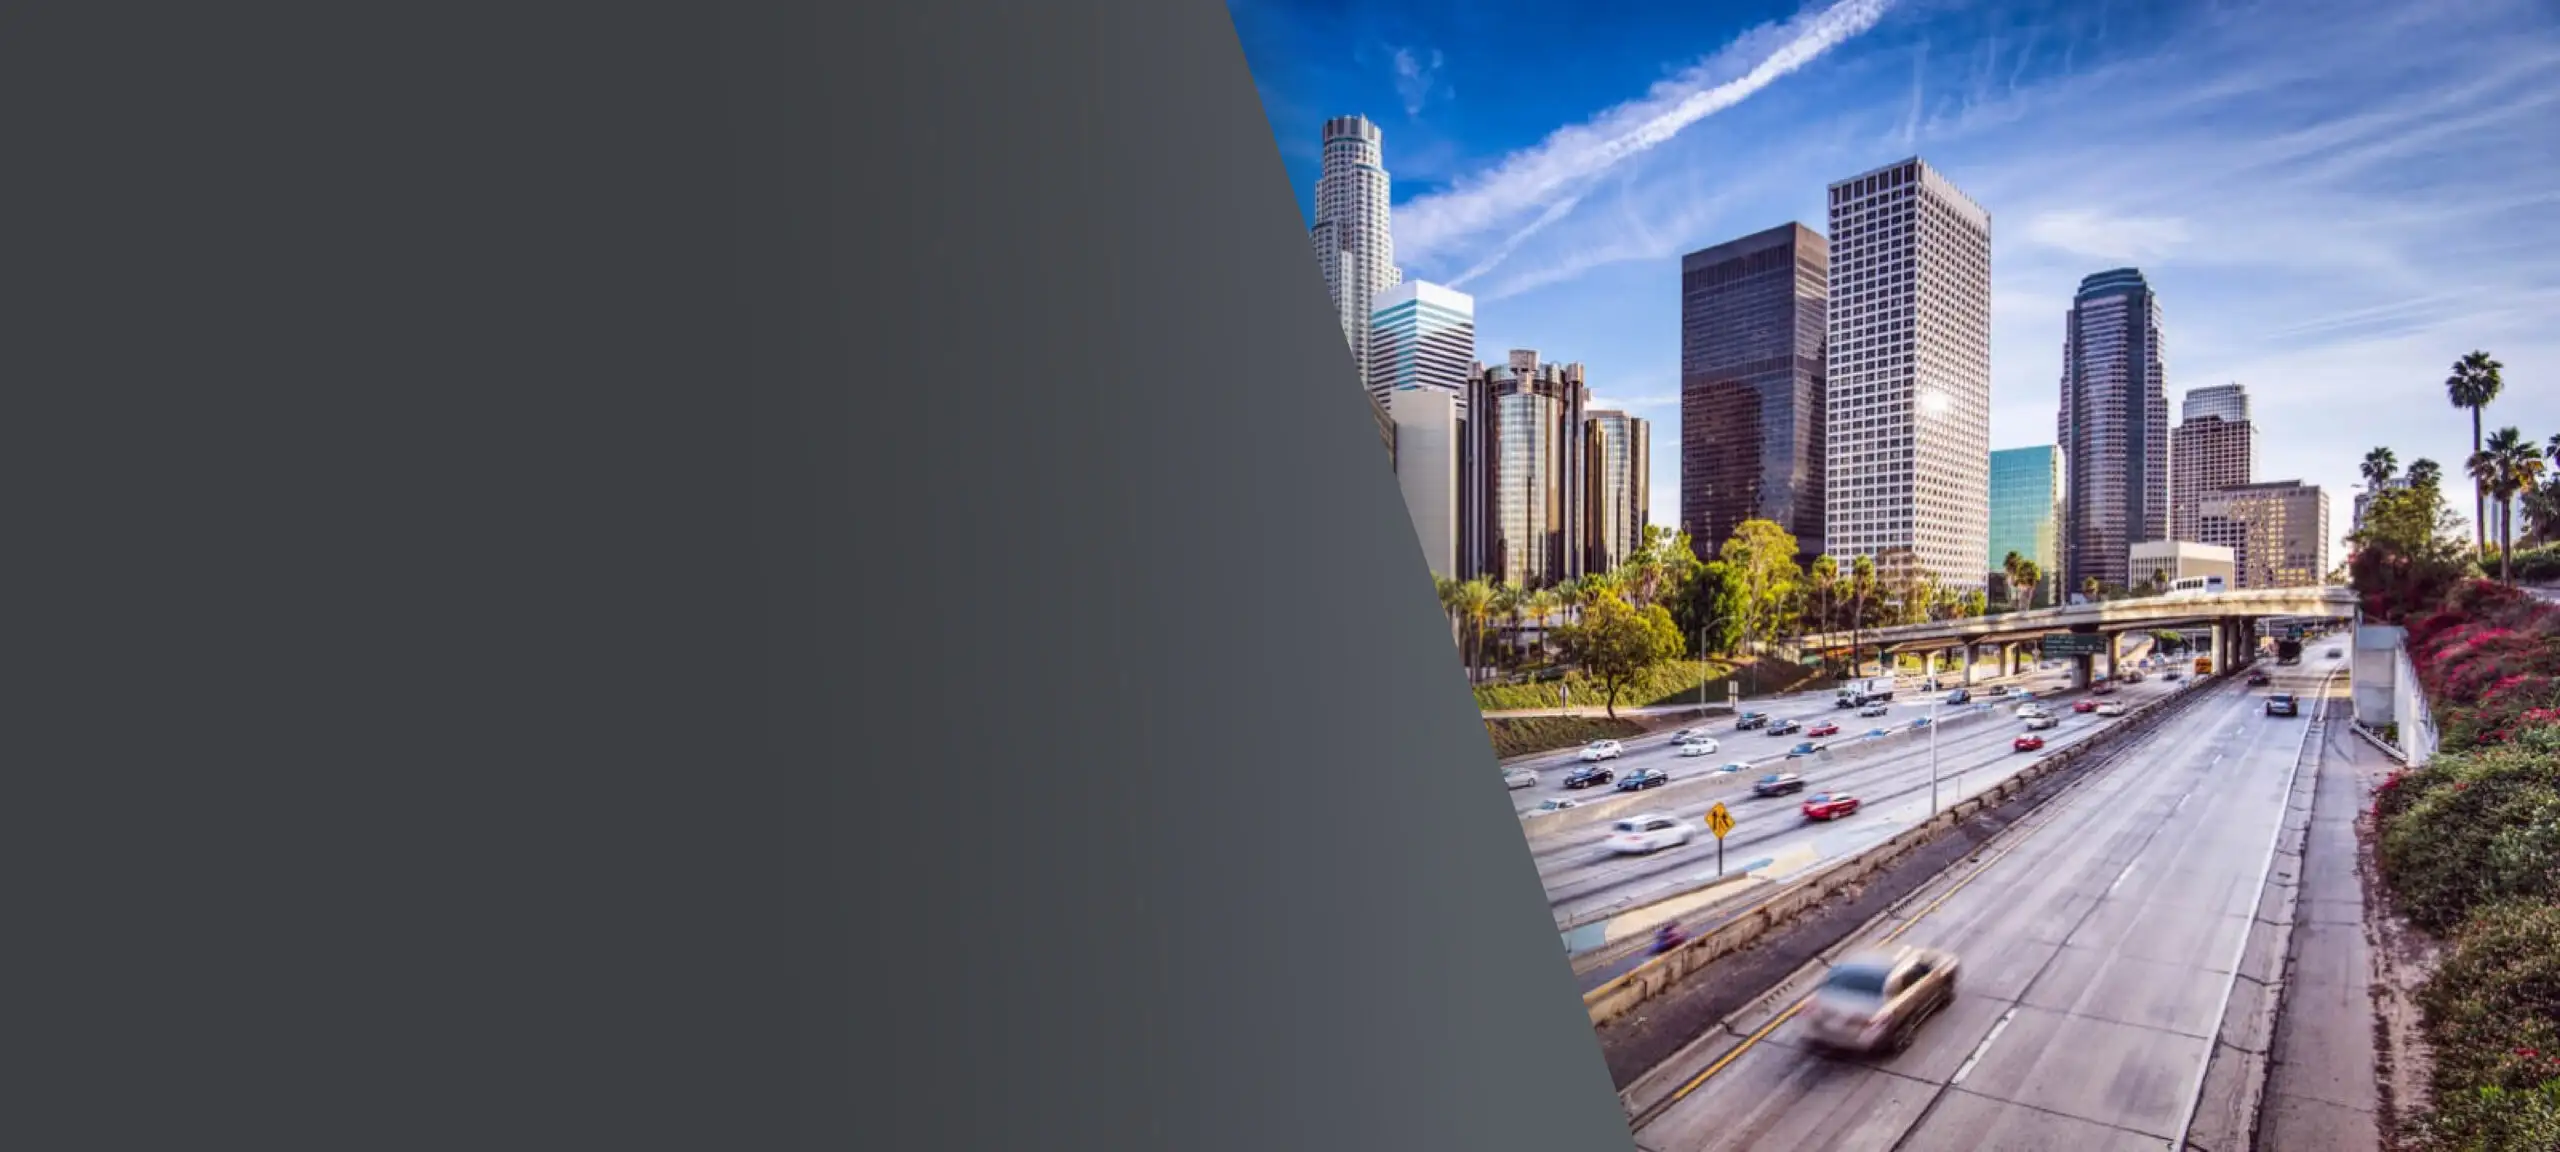
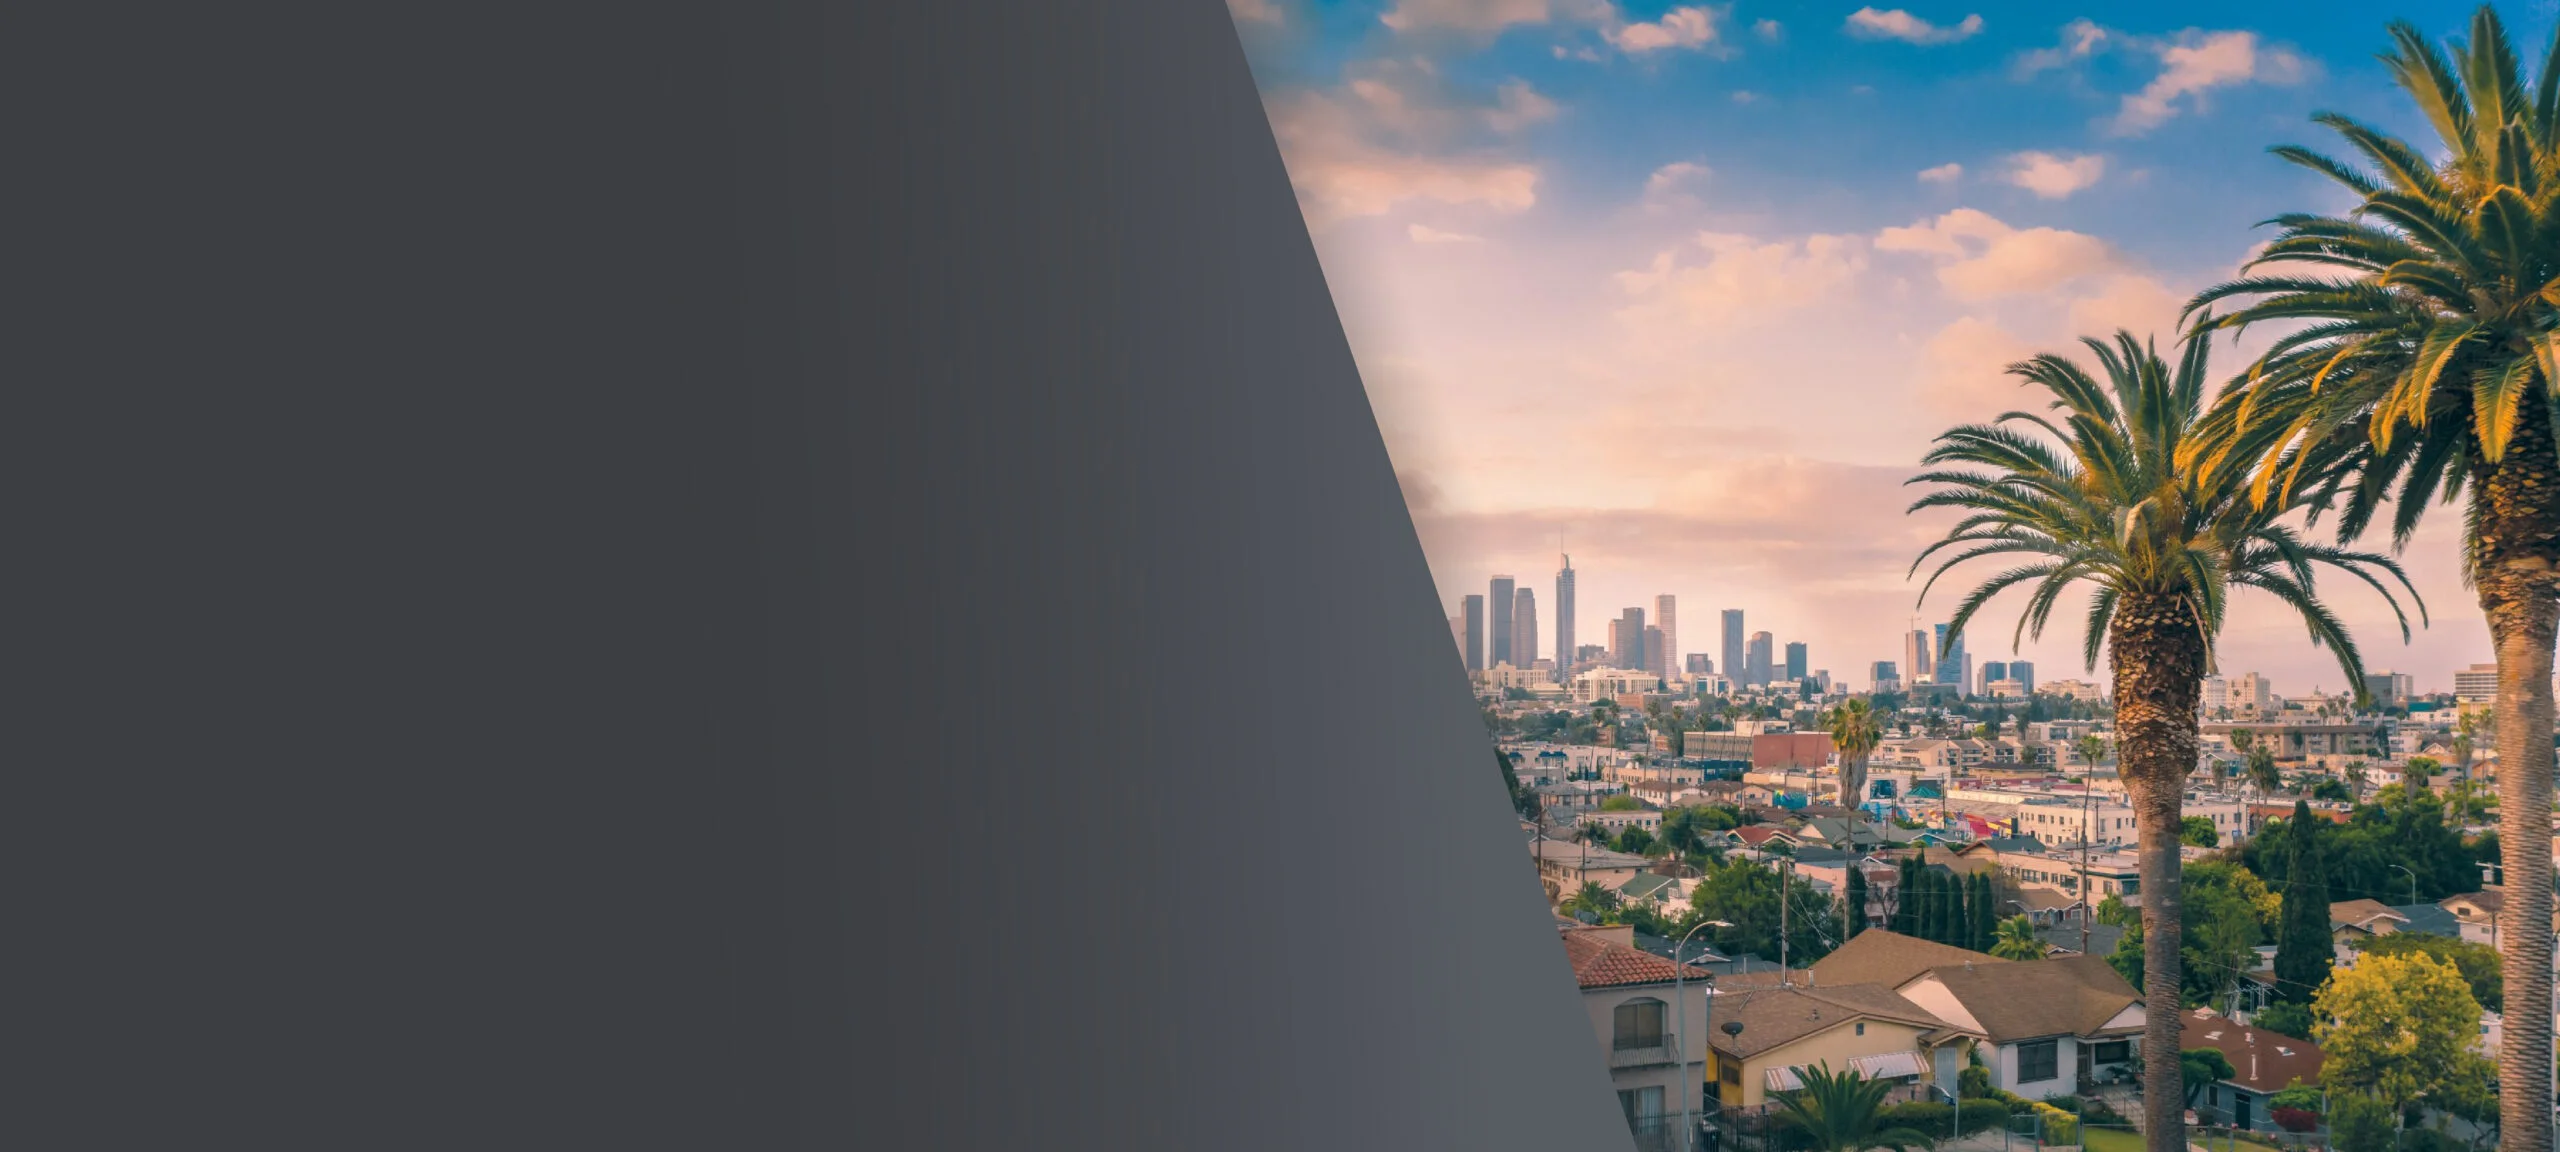
fix: sync LA page content word-for-word + schema + hero WebP + contact band standards

diff --git a/pages/data-recovery-los-angeles.vue b/pages/data-recovery-los-angeles.vue
@@ -1,4 +1,65 @@
 <script setup lang="ts">
+useHead({
+  script: [
+    {
+      type: 'application/ld+json',
+      innerHTML: JSON.stringify({
+        "@context": "https://schema.org",
+        "@graph": [
+          {
+            "@type": "LocalBusiness",
+            "@id": "https://www.fivestardatarecovery.com/#business",
+            "name": "Five Star Data Recovery",
+            "image": "https://www.fivestardatarecovery.com/logo.png",
+            "priceRange": "$$",
+            "telephone": "[phone redacted]",
+            "address": {
+              "@type": "PostalAddress",
+              "streetAddress": "1731 S Brand Blvd",
+              "addressLocality": "Glendale",
+              "addressRegion": "CA",
+              "postalCode": "91204",
+              "addressCountry": "US"
+            },
+            "url": "https://www.fivestardatarecovery.com",
+            "areaServed": { "@type": "Country", "name": "United States" },
+            "aggregateRating": { "@type": "AggregateRating", "ratingValue": "4.9", "reviewCount": "498" }
+          },
+          {
+            "@type": "BreadcrumbList",
+            "itemListElement": [
+              { "@type": "ListItem", "position": 1, "name": "Home", "item": "https://www.fivestardatarecovery.com/" },
+              { "@type": "ListItem", "position": 2, "name": "Data Recovery Los Angeles", "item": "https://www.fivestardatarecovery.com/data-recovery-los-angeles/" }
+            ]
+          },
+          {
+            "@type": "FAQPage",
+            "mainEntity": [
+              { "@type": "Question", "name": "Do you offer professional data recovery services in Los Angeles, CA?", "acceptedAnswer": { "@type": "Answer", "text": "Yes, we specialize in professional data recovery in Los Angeles. Whether you're facing a failed hard drive, a corrupted SSD, or a non-responsive USB flash drive, our local recovery experts are here to help. We have over a decade of experience handling complex data loss scenarios, right here in the heart of Los Angeles." } },
+              { "@type": "Question", "name": "How long does a typical Los Angeles data recovery take?", "acceptedAnswer": { "@type": "Answer", "text": "Most standard recoveries take 3\u20135 business days. If your situation is urgent, we offer both Expedited and Expedited Plus services. Every recovery begins with a thorough diagnostic and we provide same-day updates for all Los Angeles-based drop-offs or pickups." } },
+              { "@type": "Question", "name": "Where is your data recovery lab located in Los Angeles?", "acceptedAnswer": { "@type": "Answer", "text": "Our certified recovery lab is just outside Los Angeles in Glendale, CA, and we proudly serve clients across the entire Los Angeles area. We also offer free same-day pickup for local clients and nationwide mail-in service for out-of-area recoveries." } },
+              { "@type": "Question", "name": "Is there a free diagnostic included with your Los Angeles data recovery service?", "acceptedAnswer": { "@type": "Answer", "text": "Yes\u2014your diagnostic is free as long as you're comfortable with the initial flat-rate quote we provide upfront. There are no hidden fees or surprises. If the scope of the recovery changes, you'll have the option to approve the new rate or walk away without paying anything." } },
+              { "@type": "Question", "name": "What types of devices do you recover data from in Los Angeles?", "acceptedAnswer": { "@type": "Answer", "text": "We recover data from hard drives, SSDs, external drives, USB flash drives, SD cards, iPhones, MacBooks, iMacs, RAID arrays, and more. Whether you lost files due to accidental deletion, physical damage, or logical failure, our team is equipped to recover your data securely and efficiently." } },
+              { "@type": "Question", "name": "Do you offer emergency or same-day data recovery in Los Angeles?", "acceptedAnswer": { "@type": "Answer", "text": "Yes, we offer emergency data recovery services for Los Angeles clients. Our Expedited Plus Service is available 24/7 for time-sensitive situations. Your case is prioritized immediately, even outside normal business hours." } },
+              { "@type": "Question", "name": "Can you recover data from water-damaged or physically broken devices in Los Angeles?", "acceptedAnswer": { "@type": "Answer", "text": "Absolutely. We specialize in recovering data from physically damaged devices\u2014including water-damaged hard drives, phones, MacBooks and SSDs. Our Los Angeles cleanroom lab is fully equipped to handle severe cases involving hardware failure." } },
+              { "@type": "Question", "name": "Do you provide business data recovery for companies in Los Angeles?", "acceptedAnswer": { "@type": "Answer", "text": "Yes, we offer professional data recovery services for businesses throughout Los Angeles. From RAID systems and servers to encrypted drives and file systems, we handle business-critical recoveries with confidentiality and offer NDAs upon request." } },
+              { "@type": "Question", "name": "What is your success rate for data recovery in Los Angeles?", "acceptedAnswer": { "@type": "Answer", "text": "We maintain a 98% success rate across most recovery cases. Thanks to our experienced engineers and certified cleanroom lab in Los Angeles, we're able to recover data from a wide range of devices, even those considered unrecoverable by others." } },
+              { "@type": "Question", "name": "Is your Los Angeles data recovery lab certified?", "acceptedAnswer": { "@type": "Answer", "text": "Yes, our facility is ISO-certified and operates in a professional Class 100 cleanroom environment. This ensures all physically damaged drives are handled under optimal conditions for maximum recovery success." } }
+            ]
+          },
+          {
+            "@type": "Review",
+            "author": { "@type": "Person", "name": "Sarah K. (Los Angeles, CA)" },
+            "reviewRating": { "@type": "Rating", "ratingValue": "5", "bestRating": "5" },
+            "reviewBody": "Five Star Data Recovery saved my business files after a failed hard drive. Fast, transparent, and professional from start to finish.",
+            "itemReviewed": { "@type": "LocalBusiness", "@id": "https://www.fivestardatarecovery.com/#business", "name": "Five Star Data Recovery" }
+          }
+        ]
+      })
+    }
+  ]
+})
+
 useSeoMeta({
   title: 'Data Recovery in Los Angeles CA - Five Star Data Recovery',
   ogTitle: 'Data Recovery Los Angeles',
@@ -15,17 +76,17 @@ const trustBadges = [
 
 const reviews = [
   {
-    text: "I was devastated when my hard drive failed and I thought I'd lost years of photos and work documents. Five Star Data Recovery not only recovered everything, but they offered free same-day pickup right here in Los Angeles. The process was smooth, professional, and the pricing was completely transparent.",
+    text: "After my external hard drive suddenly stopped showing up, I reached out to Five Star Data Recovery. They explained the process clearly and gave me a flat-rate price with no hidden fees. Within a few days, I had all my files back—including hundreds of family photos I thought were gone forever. Highly recommended!",
     name: 'Melissa C.',
     location: 'Los Angeles, CA',
   },
   {
-    text: "My external SSD stopped working out of nowhere and I had no backup. Five Star's team in Glendale diagnosed it the same day and recovered 100% of my data within 3 business days. The free pickup from my LA office made it incredibly easy. I can't recommend them highly enough.",
+    text: 'The team at Five Star was incredible! My RAID system failed, and I was on the verge of losing years of business data. They walked me through the recovery process, kept me updated daily, and delivered a full recovery within the estimated timeframe. Their professionalism and expertise gave me real peace of mind.',
     name: 'David R.',
     location: 'Los Angeles, CA',
   },
   {
-    text: "After a water spill destroyed my laptop, I was sure everything was gone. Five Star assessed the drive in their cleanroom and managed to recover all of my client files and personal photos. The flat-rate pricing meant no surprises, and their No Data, No Charge policy gave me total peace of mind.",
+    text: "I had a clicking hard drive that I thought was beyond saving. Five Star Data Recovery handled everything quickly and professionally. The fact that they don't charge unless they recover your data made the decision stress-free. Thankfully, they were able to recover everything I needed.",
     name: 'Jennifer M.',
     location: 'Los Angeles, CA',
   },
@@ -33,31 +94,46 @@ const reviews = [
 
 const faqs = [
   {
-    q: 'Do you offer data recovery services in Los Angeles?',
-    a: "Yes — Five Star Data Recovery serves all of Los Angeles and surrounding areas. Our lab is based in Glendale, CA and we offer free same-day pickup Monday through Friday throughout Los Angeles. Simply call us or submit an online request to get started.",
+    q: 'Do you offer professional data recovery services in Los Angeles, CA?',
+    a: "Yes, we specialize in professional data recovery in Los Angeles. Whether you're facing a failed hard drive, a corrupted SSD, or a non-responsive USB flash drive, our local recovery experts are here to help. We have over a decade of experience handling complex data loss scenarios, right here in the heart of Los Angeles.",
   },
   {
-    q: 'How does your free same-day pickup work?',
-    a: "Give us a call or fill out a request online. We'll schedule a pickup from your Los Angeles home or office at no charge, typically the same day. Your device will be transported securely to our Glendale lab and evaluated immediately upon arrival.",
+    q: 'How long does a typical Los Angeles data recovery take?',
+    a: 'Most standard recoveries take 3–5 business days. If your situation is urgent, we offer both Expedited and Expedited Plus services. Every recovery begins with a thorough diagnostic and we provide same-day updates for all Los Angeles-based drop-offs or pickups.',
   },
   {
-    q: 'What types of devices can you recover data from in Los Angeles?',
-    a: 'We recover data from hard drives, SSDs, external drives, RAID arrays, NAS devices, USB flash drives, SD cards, iPhones, and more. Whether it\'s a personal device or a business server, we handle all storage media types.',
+    q: 'Where is your data recovery lab located in Los Angeles?',
+    a: 'Our certified recovery lab is just outside Los Angeles in Glendale, CA, and we proudly serve clients across the entire Los Angeles area. We also offer free same-day pickup for local clients and nationwide mail-in service for out-of-area recoveries.',
   },
   {
-    q: 'How long does data recovery take?',
-    a: 'Standard cases for Los Angeles clients are typically completed within 3–5 business days. We also offer <a href="/expedited-service" class="faq-link">Expedited Service</a> for priority business-hour recovery and <a href="/expedited-service-plus" class="faq-link">Expedited Service Plus</a> for 24/7 around-the-clock recovery.',
+    q: 'Is there a free diagnostic included with your Los Angeles data recovery service?',
+    a: "Yes—your diagnostic is free as long as you're comfortable with the initial flat-rate quote we provide upfront. There are no hidden fees or surprises. If the scope of the recovery changes, you'll have the option to approve the new rate or walk away without paying anything.",
   },
   {
-    q: 'What does No Data, No Charge mean?',
-    a: 'Our No Data, No Charge (most cases) policy means that if we cannot recover your data, you will not be charged for the recovery service. The free diagnostic evaluation is always included at no cost and with no obligation to proceed.',
+    q: 'What types of devices do you recover data from in Los Angeles?',
+    a: 'We recover data from hard drives, SSDs, external drives, USB flash drives, SD cards, iPhones, MacBooks, iMacs, RAID arrays, and more. Whether you lost files due to accidental deletion, physical damage, or logical failure, our team is equipped to recover your data securely and efficiently.',
   },
   {
-    q: 'How much does data recovery cost in Los Angeles?',
-    a: 'We use flat-rate pricing with no hidden fees. Recovery costs typically range from $300 to $950 depending on the device type and severity of the failure. You\'ll receive a complete quote after the free diagnosis before any work begins.',
+    q: 'Do you offer emergency or same-day data recovery in Los Angeles?',
+    a: 'Yes, we offer emergency data recovery services for Los Angeles clients. Our Expedited Plus Service is available 24/7 for time-sensitive situations. Your case is prioritized immediately, even outside normal business hours.',
+  },
+  {
+    q: 'Can you recover data from water-damaged or physically broken devices in Los Angeles?',
+    a: 'Absolutely. We specialize in recovering data from physically damaged devices—including water-damaged hard drives, phones, MacBooks and SSDs. Our Los Angeles cleanroom lab is fully equipped to handle severe cases involving hardware failure.',
+  },
+  {
+    q: 'Do you provide business data recovery for companies in Los Angeles?',
+    a: 'Yes, we offer professional data recovery services for businesses throughout Los Angeles. From RAID systems and servers to encrypted drives and file systems, we handle business-critical recoveries with confidentiality and offer NDAs upon request.',
+  },
+  {
+    q: 'What is your success rate for data recovery in Los Angeles?',
+    a: "We maintain a 98% success rate across most recovery cases. Thanks to our experienced engineers and certified cleanroom lab in Los Angeles, we're able to recover data from a wide range of devices, even those considered unrecoverable by others.",
+  },
+  {
+    q: 'Is your Los Angeles data recovery lab certified?',
+    a: 'Yes, our facility is ISO-certified and operates in a professional Class 100 cleanroom environment. This ensures all physically damaged drives are handled under optimal conditions for maximum recovery success.',
   },
 ]
-
 const openFaq = ref<number | null>(null)
 const toggleFaq = (i: number) => { openFaq.value = openFaq.value === i ? null : i }
 </script>
@@ -80,9 +156,7 @@ const toggleFaq = (i: number) => { openFaq.value = openFaq.value === i ? null : 
     <section class="s-white">
       <div class="container">
         <h2 class="s-heading">Free Same-Day Pickup in Los Angeles</h2>
-        <p class="s-body">We know that dealing with data loss is stressful enough without having to figure out how to get your device to a lab. That's why Five Star Data Recovery offers free same-day pickup throughout Los Angeles — Monday through Friday. Just give us a call or submit an online request, and we'll come to you.</p>
-        <p class="s-body">Whether you're in Downtown LA, West Hollywood, Culver City, Santa Monica, or anywhere else in the city, our team will pick up your device at no charge. We bring it securely to our Glendale lab where our certified engineers begin the evaluation immediately.</p>
-        <p class="s-body">No need to worry about packaging, shipping, or finding a way to transport a damaged or sensitive device. Our free pickup service is designed to make the recovery process as simple and stress-free as possible for every Los Angeles client.</p>
+        <p class="s-body">Can’t make it out to our lab? No problem. We offer free same-day pickup from most areas across Los Angeles. Whether you’re at your home, office, or school, just contact us before noon, and we’ll come to you. The easiest way to get your recovery started without leaving your space is available. This service is available from Monday to Friday. One more reason data recovery clients trust us to make the process easy.</p>
       </div>
     </section>
 
@@ -90,8 +164,7 @@ const toggleFaq = (i: number) => { openFaq.value = openFaq.value === i ? null : 
     <section class="s-grey">
       <div class="container">
         <h2 class="s-heading">Trusted by Locals Across LA</h2>
-        <p class="s-body">Five Star Data Recovery has helped thousands of individuals and businesses across Los Angeles recover their most important data. From Hollywood film producers and Culver City tech startups to Westside families and downtown businesses, we've built our reputation on results, transparency, and genuine care for our clients.</p>
-        <p class="s-body">Our engineers have successfully recovered data from every major brand and device type — including Seagate, Western Digital, Samsung, Toshiba, LaCie, and more. With a 98% recovery success rate and flat-rate pricing, Los Angeles residents trust us because we deliver.</p>
+        <p class="s-body">We’re proud to be a top-rated data recovery company serving customers all over Los Angeles. Our data recovery clients include students, photographers, businesses, and IT teams. They come to us when it matters most. With high success rates, secure handling, and real technical expertise, we’ve helped thousands of satisfied customers. If you’re searching for Los Angeles data recovery that’s reliable and local—we’re the team to call.</p>
       </div>
     </section>
 
@@ -99,15 +172,16 @@ const toggleFaq = (i: number) => { openFaq.value = openFaq.value === i ? null : 
     <section class="s-white">
       <div class="container">
         <h2 class="s-heading">What We Recover</h2>
+        <p class="s-body">Our engineers recover files from nearly any storage device, including:</p>
         <ul class="content-list">
-          <li><NuxtLink to="/data-recovery/hard-drive-recovery" class="inline-link">Hard Drive Recovery</NuxtLink> — Mechanical failures, clicking drives, unresponsive HDDs</li>
-          <li><NuxtLink to="/data-recovery/ssd-recovery" class="inline-link">SSD Recovery</NuxtLink> — Firmware errors, controller failures, sudden death</li>
-          <li><NuxtLink to="/data-recovery/raid-recovery" class="inline-link">RAID &amp; NAS Recovery</NuxtLink> — All RAID levels, NAS devices, business servers</li>
-          <li><NuxtLink to="/data-recovery/external-hard-drive" class="inline-link">External Hard Drive Recovery</NuxtLink> — Dropped, damaged, or corrupt external drives</li>
-          <li><NuxtLink to="/data-recovery/usb-recovery" class="inline-link">USB Flash Drive Recovery</NuxtLink> — Broken connectors, unrecognized drives</li>
-          <li><NuxtLink to="/data-recovery/sd-card-recovery" class="inline-link">SD Card Recovery</NuxtLink> — Camera cards, drone media, corrupted memory</li>
-          <li><NuxtLink to="/data-recovery/iphone-recovery" class="inline-link">iPhone &amp; Mobile Recovery</NuxtLink> — Component-level iOS device recovery</li>
+          <li>External and internal hard drives</li>
+          <li>SSDs and hybrid drives</li>
+          <li>Flash drives and SD cards</li>
+          <li>Encrypted or password-protected storage</li>
+          <li>RAID arrays, NAS, and servers</li>
+          <li>Windows, macOS, and Linux systems</li>
         </ul>
+        <p class="s-body">We handle cases involving physically damaged devices, accidental deletion, formatting, failed updates, and more. Whether you’re facing data loss after a crash or corruption, we’ll work to recover the data that matters to you.</p>
       </div>
     </section>
 
@@ -115,52 +189,81 @@ const toggleFaq = (i: number) => { openFaq.value = openFaq.value === i ? null : 
     <section class="s-grey">
       <div class="container">
         <h2 class="s-heading">Hardware and Software Expertise</h2>
-        <p class="s-body">Our team specializes in both hardware-level and software-level data recovery. For mechanically damaged drives — including those with clicking read/write heads, seized motors, or damaged platters — we use our ISO 5 certified cleanroom to safely perform component-level repairs before extracting data.</p>
-        <p class="s-body">For logical failures such as corrupted file systems, accidental formatting, bad sectors, and deleted files, we use industry-leading imaging and reconstruction tools to retrieve your data without risking further damage. Every recovery is handled with the utmost care and precision.</p>
+        <p class="s-body">Hardware issues cause some data loss, while software failure causes others. Our recovery experts receive training in both hardware and software data recovery. Whether it’s a head crash or a virus, we’ll know how to handle it. We perform all recoveries that involve fixing internal drives in our Class 100 cleanroom. This cleanroom keeps delicate parts safe from dust and damage. Every cleanroom procedure is handled by certified engineers using anti-static protocols to ensure data integrity.</p>
+        <p class="s-body">Our team also uses specialized tools to address firmware corruption, file system damage, and partition-level failures—ensuring we can recover data even from complex or hybrid failure scenarios.</p>
       </div>
     </section>
 
     <!-- SECTION 5 — s-white: Data Recovery Process -->
     <section class="s-white">
       <div class="container">
-        <h2 class="s-heading">Data Recovery Process</h2>
+        <h2 class="s-heading">Our 5-Step Data Recovery Process</h2>
         <div class="process-steps">
           <div class="process-step">
             <div class="step-num">1</div>
             <div>
-              <h3 class="step-title">Drop off or Mail in Your Drive</h3>
-              <p class="step-body">You can visit our Glendale lab for a quick drop-off, or securely mail your device using our prepaid shipping label — whichever is more convenient for you.</p>
+              <h3 class="step-title">Free Evaluation</h3>
+              <p class="step-body">We assess your device and provide a diagnostic report with a flat-rate quote—no obligation.</p>
             </div>
           </div>
           <div class="process-step">
             <div class="step-num">2</div>
             <div>
-              <h3 class="step-title">Receive a Free Diagnosis</h3>
-              <p class="step-body">Our team will evaluate your device and provide a detailed diagnosis along with an initial quote — completely free of charge and with no obligation to proceed.</p>
+              <h3 class="step-title">Drive Imaging</h3>
+              <p class="step-body">We create a sector-by-sector clone of your storage device to preserve the original data.</p>
             </div>
           </div>
           <div class="process-step">
             <div class="step-num">3</div>
             <div>
-              <h3 class="step-title">Our Engineers work on Recovering your Data</h3>
-              <p class="step-body">We carefully begin the recovery process using advanced tools and cleanroom procedures.</p>
+              <h3 class="step-title">Recovery Process</h3>
+              <p class="step-body">Using advanced tools, we extract and rebuild the data from the cloned image.</p>
             </div>
           </div>
           <div class="process-step">
             <div class="step-num">4</div>
             <div>
-              <h3 class="step-title">Review &amp; Approve the Recovered</h3>
-              <p class="step-body">After recovery is complete, you'll receive a detailed file list to review so you can confirm everything important has been successfully recovered.</p>
+              <h3 class="step-title">File Review</h3>
+              <p class="step-body">You review a list or preview of the recovered files before finalizing the case.</p>
             </div>
           </div>
           <div class="process-step">
             <div class="step-num">5</div>
             <div>
-              <h3 class="step-title">Receive your recovered data</h3>
-              <p class="step-body">Once approved, we'll securely transfer your data to a new drive and return it to you via pickup or insured shipping — ready for immediate use.</p>
+              <h3 class="step-title">Data Delivery</h3>
+              <p class="step-body">We transfer your recovered data to a new drive and return it securely.</p>
             </div>
           </div>
         </div>
+      </div>
+    </section>
+
+    <!-- YOUR PRIVACY COMES FIRST -->
+    <section class="s-grey">
+      <div class="container">
+        <h2 class="s-heading">Your Privacy Comes First</h2>
+        <p class="s-body">We treat your data with complete confidentiality—just like we’d want our own handled. Whether you are a student with lost essays or a business with private files, we take steps to keep your data safe. We also offer:</p>
+        <ul class="content-list">
+          <li>Optional NDAs for sensitive projects</li>
+          <li>Secure file transfers and storage</li>
+          <li>Permanent file deletion after delivery (on request)</li>
+        </ul>
+      </div>
+    </section>
+
+    <!-- WHO WE HELP -->
+    <section class="s-white">
+      <div class="container">
+        <h2 class="s-heading">Who We Help</h2>
+        <p class="s-body">We provide data recovery services in Los Angeles for a wide range of people and businesses, including:</p>
+        <ul class="content-list">
+          <li>Students who accidentally deleted assignments or lost access to school projects</li>
+          <li>Small businesses experiencing server crashes or corrupted files</li>
+          <li>Creative professionals like photographers, editors, and producers who need to restore media</li>
+          <li>Home users trying to recover family photos, videos, or personal documents</li>
+          <li>IT departments and tech consultants managing RAID, NAS, or multi-drive failures</li>
+          <li>Legal, healthcare, and finance professionals needing secure, confidential recovery</li>
+        </ul>
       </div>
     </section>
 
@@ -168,16 +271,16 @@ const toggleFaq = (i: number) => { openFaq.value = openFaq.value === i ? null : 
     <ReviewsSection :reviews="reviews" />
 
     <!-- CONTACT BAND -->
-    <section class="s-contact-band">
+    <section class="s-contact-band contact-band-bg">
       <div class="container">
         <div class="contact-banner-card">
-          <h2 class="contact-banner-heading">Contact Us for Los Angeles Data Recovery</h2>
+          <h2 class="contact-banner-heading">Let’s Recover Your Files</h2>
         </div>
+        <p class="contact-body-text">If your files are stuck, corrupted, or just gone—don’t wait. Reach out to Five Star Data Recovery today. The sooner we start, the better your chance of a full recovery.</p>
         <ul class="contact-bullets">
-          <li>Free same-day pickup Monday–Friday</li>
-          <li>Free diagnostic</li>
-          <li>3–5 business day turnaround</li>
-          <li>No Data, No Charge (most cases)</li>
+          <li>Based near Los Angeles – Serving all surrounding areas</li>
+          <li>Free same-day pickup available (Mon–Fri)</li>
+          <li>Call us now or create a ticket online</li>
         </ul>
         <NuxtLink to="/start-recovery" class="btn-start-recovery">Start Your Recovery</NuxtLink>
       </div>
@@ -221,9 +324,11 @@ const toggleFaq = (i: number) => { openFaq.value = openFaq.value === i ? null : 
 .step-num { width: 48px; height: 48px; background: #1a1a2e; color: #C9A84C; font-size: 1.2rem; font-weight: 900; border-radius: 50%; display: flex; align-items: center; justify-content: center; flex-shrink: 0; }
 .step-title { font-size: 1rem; font-weight: 800; color: #1a1a2e; margin-bottom: 8px; }
 .step-body { font-size: 0.93rem; color: #4a5568; line-height: 1.7; margin: 0; }
-.s-contact-band { background: #0f1623; padding: 72px 0; border-top: 3px solid #C9A84C; border-bottom: 3px solid #C9A84C; }
-.contact-banner-card { border: 1px solid rgba(201,168,76,0.3); border-radius: 8px; padding: 28px 32px; margin-bottom: 28px; }
+.s-contact-band { background: #0f1623; padding: 44px 0; border-top: 3px solid #C9A84C; border-bottom: 3px solid #C9A84C; }
+.contact-band-bg { background: linear-gradient(to right, rgba(15,22,35,0.92) 0%, rgba(15,22,35,0.75) 60%, rgba(15,22,35,0.5) 100%), url('/pasadena-contact-bg.jpg') center center / cover no-repeat !important; }
+.contact-banner-card { border: none; border-radius: 0; padding: 0; margin-bottom: 16px; }
 .contact-banner-heading { font-size: clamp(1.4rem, 2.5vw, 1.9rem); font-weight: 900; color: #fff; margin: 0; }
+.contact-body-text { font-size: 0.95rem; color: rgba(255,255,255,0.7); line-height: 1.75; margin-bottom: 20px; }
 .contact-bullets { list-style: none; padding: 0; margin: 0 0 28px; display: flex; flex-direction: column; gap: 8px; }
 .contact-bullets li { font-size: 0.93rem; color: rgba(255,255,255,0.65); display: flex; align-items: center; gap: 10px; }
 .contact-bullets li::before { content: '✓'; color: #C9A84C; font-weight: 700; }